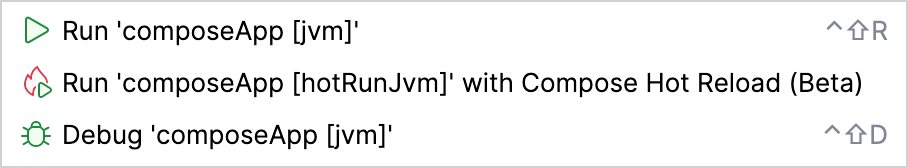
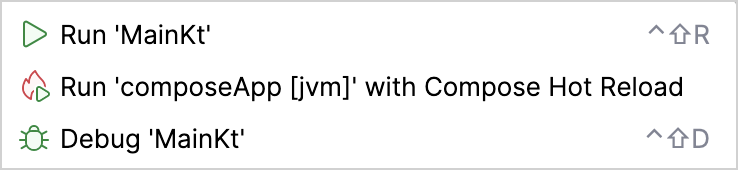
UI update

diff --git a/topics/tools/compose-hot-reload.md b/topics/tools/compose-hot-reload.md
@@ -118,7 +118,7 @@ to the project from the [Create an app with shared logic and UI](compose-multipl
    ```
 
 4.  Open the `main.kt` file and click the **Run** icon in the gutter. 
-    Select **Run 'composeApp [hotRunJvm]' with Compose Hot Reload (Beta)**.
+    Select **Run 'composeApp [jvm]' with Compose Hot Reload**.
 
     ![Run Compose Hot Reload from gutter](compose-hot-reload-gutter-run.png){width=350}
 
